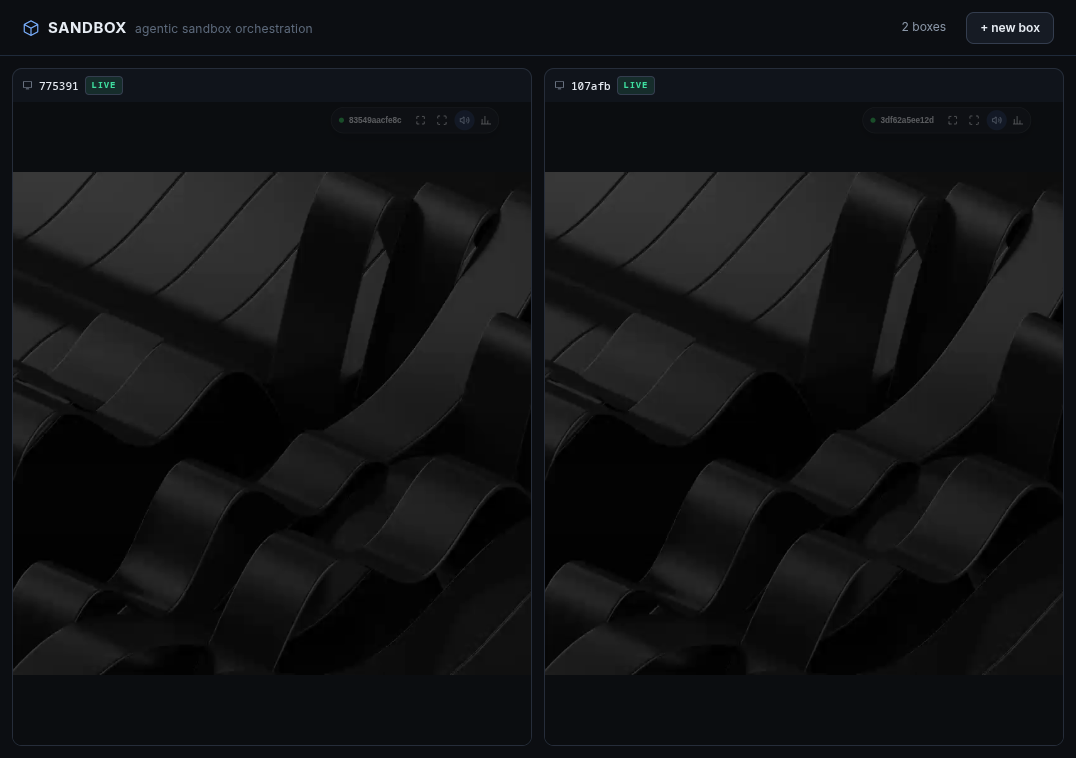
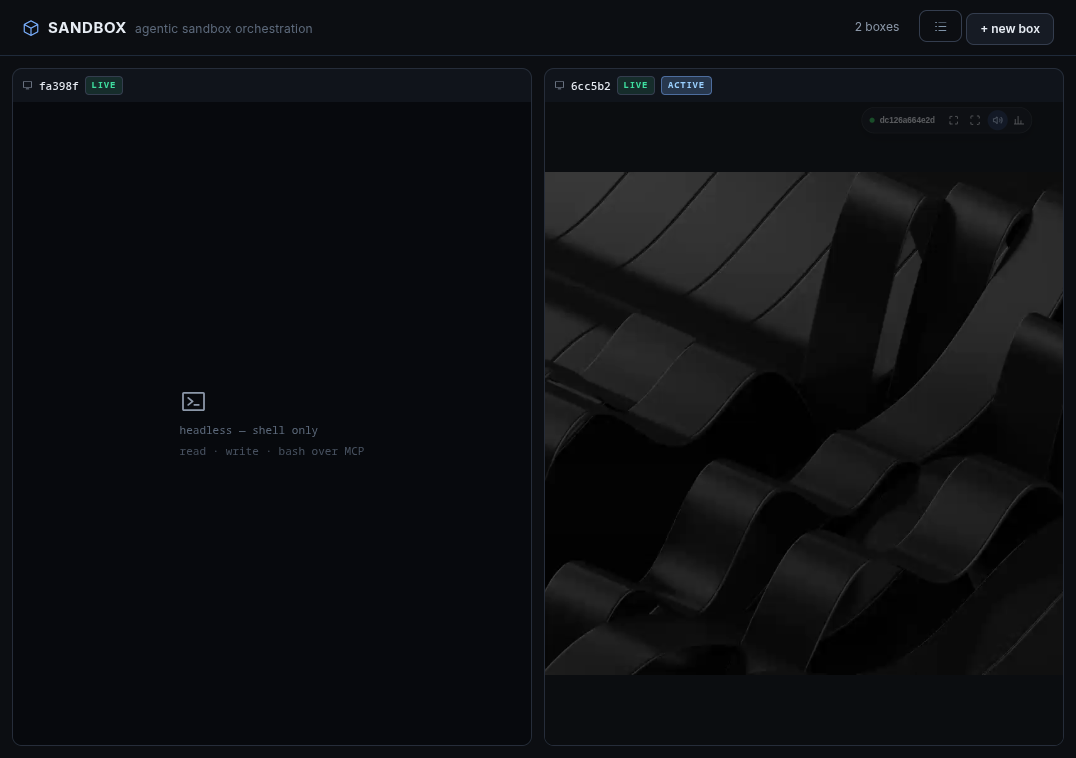
sbox-b: document the host MCP plane, image matrix and LAN gateway
Also marks the active sandbox in the wall payload so the UI can show it, and
refreshes the screenshot to the two-kind wall (headless shell box beside a
headed desktop).

diff --git a/src/api/containers.rs b/src/api/containers.rs
@@ -209,6 +209,9 @@ pub async fn get_container_list() -> Result<Vec<Value>, String> {
         .filter(|c| images.iter().any(|i| *i == c.image))
         .collect();
 
+    // The wall marks the active sandbox — the one the host MCP tools act on
+    // when a client names none.
+    let active = super::orchestration::active_id();
     let mut out = Vec::with_capacity(rows.len());
     for c in rows {
         let kind = images::Kind::of_image(&c.image);
@@ -240,6 +243,7 @@ pub async fn get_container_list() -> Result<Vec<Value>, String> {
             "mcpPort": mcp_port,
             "ready": ready,
             "kind": kind.as_str(),
+            "active": active.as_deref() == Some(c.id.as_str()),
         });
         if let Some(b) = backref {
             entry["backref"] = b;

diff --git a/README.md b/README.md
@@ -12,8 +12,9 @@ got.
 
 ![The wall](docs/screenshot.png)
 
-Each tile is a live Alpine desktop streaming H.264 over a WebSocket, served by
-`cua-spacesd` inside the container.
+Two sandboxes: a `headless` shell box on the left, a `headed` desktop on the
+right streaming H.264 over a WebSocket. The right one is **active** — the one
+the host MCP tools act on when a client names none.
 
 ## Stack
 
@@ -71,6 +72,28 @@ ready`, persisted to `tmp/orchestration-state.json` and reconciled against the
 container CLI on every read — the CLI is the source of truth for whether a
 sandbox still exists.
 
+### Host MCP plane — `POST /mcp`
+
+One Streamable-HTTP MCP endpoint that manages the pool and puts the three
+harness hands inside the active sandbox. This is the surface a `claude` or
+`codex` CLI on another machine attaches to.
+
+| tool | acts on |
+|---|---|
+| `sandbox_create` | the pool — builds and boots, **blocks until ready** |
+| `sandbox_list` | the pool |
+| `sandbox_use` | the pool — moves the active cursor |
+| `sandbox_destroy` | the pool |
+| `sandbox_screenshot` | a sandbox desktop (headed only) |
+| `read` / `write` / `bash` | the **active** sandbox, through execd |
+
+Every call requires `Authorization: Bearer <token>`, including on loopback.
+The token is generated once into `.sbox-lan-token` (0600, gitignored) and
+printed on creation.
+
+`GET /api/journal?after=<seq>` tails the tool-call log: every call, from every
+client, with arguments, outcome and duration. The wall's log pane reads it.
+
 ### Agent planes (`docs/mcp-driver-contract.md`, `docs/execd-contract.md`)
 
 ```
@@ -86,6 +109,43 @@ One HTTP request = one MCP request. The driver holds no session state: the
 initialize handshake runs per request, and the per-sandbox bearer token is
 recomputed as `HMAC-SHA256(.cua-secret, containerId)` — never persisted,
 never echoed.
+
+## The image matrix
+
+| kind | contents | ready when | size | boot |
+|---|---|---|---|---|
+| `headed` | Xvfb, Openbox, Chromium, PipeWire, cua-spacesd, execd | spacesd `/health` on 3211 | ~2.0 GB | ~20-30s |
+| `headless` | shell + execd. No X, no browser, no audio, no spacesd | execd `/healthz` on 3213 | ~167 MB | ~1s |
+
+`image` on a create names a **kind**, not an image reference — letting a caller
+name an arbitrary image is a much larger trust decision than picking a row of
+a matrix the host built itself, and this plane faces the LAN.
+
+```bash
+podman build -t alpine-desktop:spacesd  -f desktop/Containerfile          desktop/
+podman build -t alpine-sandbox:headless -f desktop/Containerfile.headless desktop/
+```
+
+`SANDBOX_IMAGE` and `SANDBOX_IMAGE_HEADLESS` override the two tags.
+
+## Exposing it to the network
+
+`sbox-lan` is the gateway: it publishes **exactly `POST /mcp`** and nothing
+else, so the backend's unauthenticated `/api/*` surface stays on loopback.
+
+```bash
+./target/debug/sbox-lan            # 127.0.0.1:7777 (default)
+./target/debug/sbox-lan --lan      # 0.0.0.0:7777
+```
+
+It is a separate binary because it is a separate trust boundary. Binding the
+backend wider instead would publish the whole REST API alongside the
+authenticated MCP endpoint.
+
+The posture this is built for: the host never dials out and never echoes a
+shell. It listens for an ordinary HTTP application protocol — the same
+artifact class as any other MCP server — and every side effect lands inside a
+container whose reachability into the host is a mount declared at create.
 
 ## Layout
 
@@ -103,7 +163,11 @@ sbox-b/
 │       ├── orchestration*.rs     AJCS lifecycle, validation, volumes, store
 │       ├── mcp_driver.rs         the two agent facades
 │       ├── spacesd.rs            gRPC-Web + hand-rolled protobuf (viewer tickets)
+│       ├── mcp_server.rs         THE HOST MCP TOOL SERVER (pool + hands)
+│       ├── journal.rs            the tool-call feed the wall tails
+│       ├── images.rs             the headed/headless matrix
 │       └── snapshots.rs          best-effort desktop PNG capture
+├── src/bin/sbox-lan.rs           the LAN gateway (only POST /mcp)
 ├── desktop/                      the guest image (Containerfile + assets)
 ├── docs/                         the three API contracts
 └── spike/                        upstream reference material — see spike/README.md
@@ -218,3 +282,23 @@ ever matters.
   the predecessor: a feature-dense multi-pod K8s sandbox with tiled desktop
   streaming, GitLab, GPU passthrough and an MCP host-coordinator. sbox trades
   that density for one container runtime and a viewer that looks right.
+
+### `network: false` is refused, not honoured
+
+The field is accepted and the value is rejected. Disabling the container
+network also disables **published ports** (verified: `--network none` with
+`-p` yields no listener), and the agent plane is reached through a published
+port — so the sandbox would boot fine and then time out at readiness.
+Unreachable is not isolated.
+
+The real implementation is execd's stdio transport (`docs/execd-contract.md`):
+drive the guest over `container exec` instead of TCP and the network becomes
+genuinely optional. Until the driver speaks that transport, refusing beats
+shipping an option that silently breaks.
+
+### spacesd has no tool called `screenshot`
+
+The capture primitive is `get_desktop_state` — *"Capture the full display in
+the desktop action coordinate frame … use the returned PNG directly as the
+coordinate source for actions"*. `sandbox_screenshot` calls that, so the frame
+it returns is the one a click would be aimed against.
